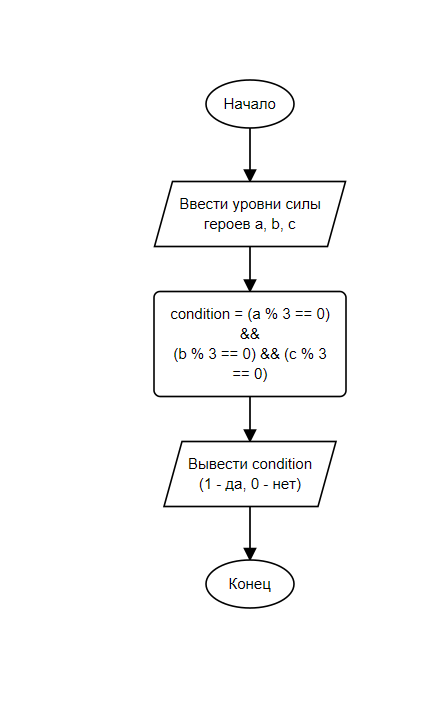
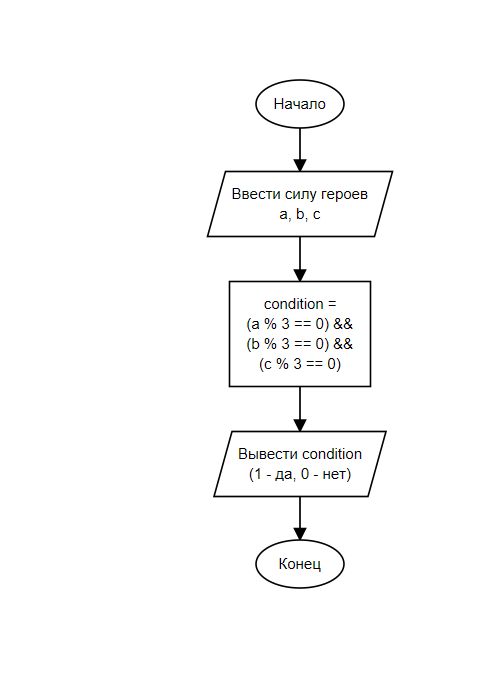
Обновление схемы

Changed region(s): [[0.3498, 0.0916, 0.8161, 0.8852], [0.3206, 0.4273, 0.3498, 0.5494]]

diff --git a/README.md b/README.md
@@ -18,7 +18,7 @@
 
 ### Блок-схема
 
-![Блок-схема](Lab4_AlgSchema.png)
+![Блок-схема](Lab4_AlgSchema.svg)
 
 ---
 
